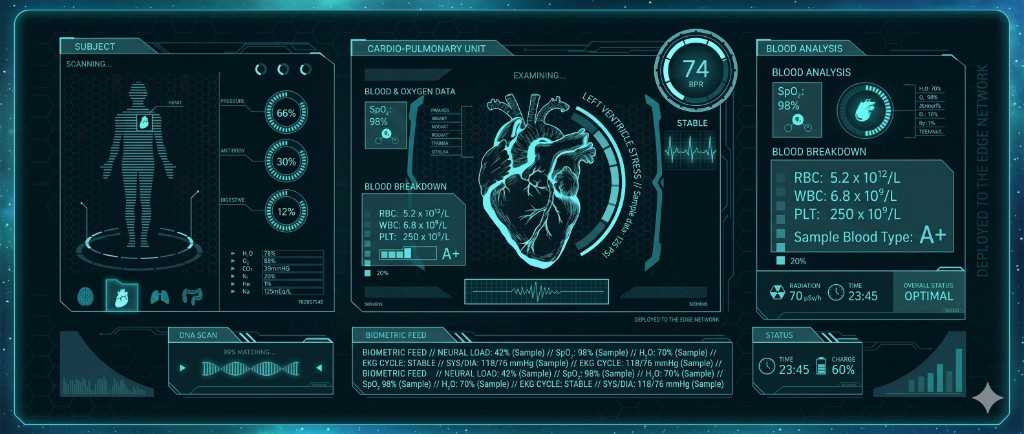
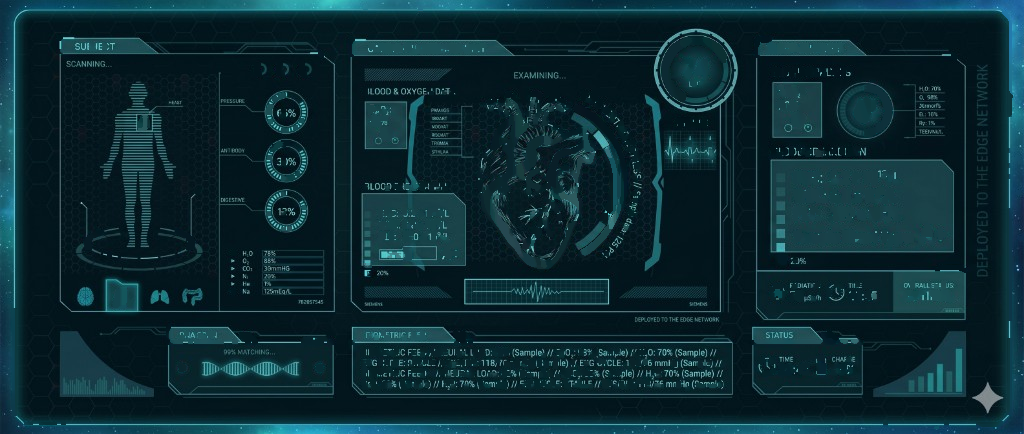
Strip baked-in HUD numbers from tile artwork and remove the gauge mask overlay.

diff --git a/src/pages/HiredHud.tsx b/src/pages/HiredHud.tsx
@@ -7,7 +7,7 @@ import DirectFuelCashButton from "../components/fuel/DirectFuelCashButton";
 import EkgPulseLine from "../components/intel/EkgPulseLine";
 import { fleetManifest } from "../data/fleetManifest";
 import { getFleetDisplayAircraftType } from "../data/fleetRoster";
-import { HIRED_HUD_GAUGE_MASK_POSITION, HIRED_HUD_TILE_BG } from "../data/hiredHudAssets";
+import { HIRED_HUD_TILE_BG } from "../data/hiredHudAssets";
 import { getHiredDeveloperUnits } from "../data/fleetRoster";
 import { developerRedBlinkHeartClass } from "../lib/developerRedBlink";
 import {
@@ -266,17 +266,7 @@ export default function HiredHud() {
                 <div className="hired-hud__tile-hud" aria-hidden>
                   <div
                     className="hired-hud__tile-hud-bg"
-                    style={{
-                      backgroundImage: `url("${HIRED_HUD_TILE_BG}")`,
-                      backgroundPosition: HIRED_HUD_GAUGE_MASK_POSITION.backgroundPosition,
-                    }}
-                  />
-                  <span
-                    className="hired-hud__tile-hud-gauge-mask"
-                    style={{
-                      left: HIRED_HUD_GAUGE_MASK_POSITION.maskLeft,
-                      top: HIRED_HUD_GAUGE_MASK_POSITION.maskTop,
-                    }}
+                    style={{ backgroundImage: `url("${HIRED_HUD_TILE_BG}")` }}
                   />
                   <span
                     className="hired-hud__tile-scanline"

diff --git a/src/index.css b/src/index.css
@@ -26814,6 +26814,7 @@ html.blog-page-root #usjet-app-shell {
   position: absolute;
   inset: -8%;
   background-size: cover;
+  background-position: center;
   background-repeat: no-repeat;
   opacity: 0.82;
   filter: saturate(1.15) contrast(1.08);
@@ -26832,21 +26833,7 @@ html.blog-page-root #usjet-app-shell {
     100% 14px,
     14px 100%,
     auto;
-}
-
-.hired-hud__tile-hud-gauge-mask {
-  position: absolute;
-  z-index: 2;
-  transform: translate(-50%, -50%);
-  width: 2.75rem;
-  height: 2.75rem;
-  border-radius: 999px;
-  background: rgb(3 14 28 / 0.98);
-  border: 1px solid rgb(34 211 238 / 0.32);
-  box-shadow:
-    inset 0 0 14px rgb(2 10 22 / 0.95),
-    0 0 10px rgb(3 14 28 / 0.85);
-  pointer-events: none;
+  z-index: 0;
 }
 
 .hired-hud__tile-scanline {

diff --git a/src/data/hiredHudAssets.ts b/src/data/hiredHudAssets.ts
@@ -1,9 +1,2 @@
 /** Medical HUD backdrop for hired-developer tiles on `/hired-hud`. */
 export const HIRED_HUD_TILE_BG = "/hired-hud/developer-tile-hud-bg.png";
-
-/** Mask anchor for the static BPM dial printed on the tile HUD artwork. */
-export const HIRED_HUD_GAUGE_MASK_POSITION = {
-  backgroundPosition: "52% 36%",
-  maskLeft: "58%",
-  maskTop: "23%",
-} as const;
